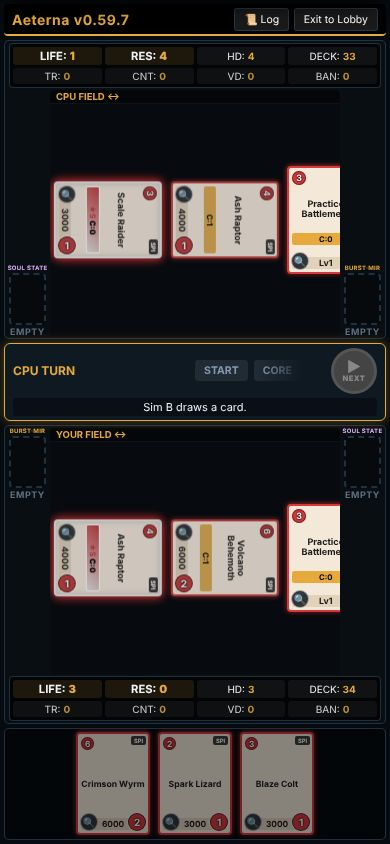
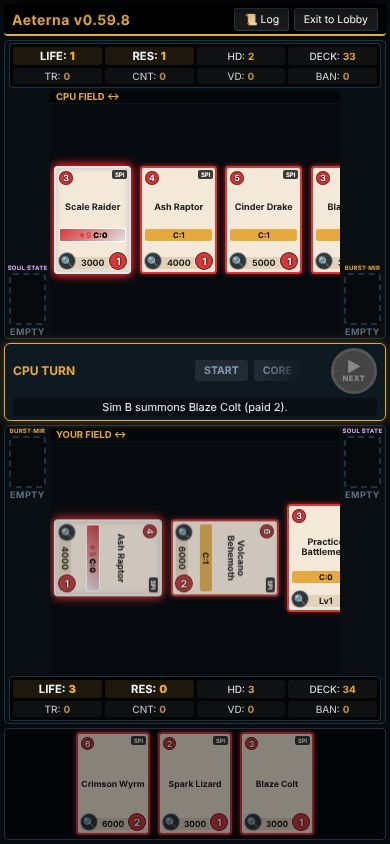
v0.59.8 match fuzzer in Regression: job fuzz, 20 seeded matches per run, failing cases as artifact
Claude-Session: https://claude.ai/code/session_014KcKFafCZmjUeoaywRimbL

diff --git a/docs/progress.html b/docs/progress.html
@@ -14,7 +14,7 @@ details{background:var(--card);border:1px solid var(--line);border-radius:8px;ma
 summary span{font-weight:400;color:var(--mut)}details>div{padding-bottom:8px}ul{margin:4px 0 4px 18px;padding:0}li{margin:3px 0}p{margin:6px 0}
 code{background:rgba(127,127,127,.16);border-radius:4px;padding:0 4px;font-size:13px;word-break:break-word}
 .commits{list-style:none;margin:0;padding:0}.commits li{border-bottom:1px solid var(--line);padding:5px 0;font-size:13px}.commits time{color:var(--mut)}</style></head><body><main>
-<h1>Aeterna - Progress <span class="ver">build v0.59.7</span></h1>
+<h1>Aeterna - Progress <span class="ver">build v0.59.8</span></h1>
 <div class="sub">Generated by <code>tools/gen_roadmap.mjs</code> on every build from CLAUDE.md, docs/ai/roadmap-open.md and the CHANGELOG release notes. Do not edit by hand.</div>
 <h2>Status</h2>
 <div class="card done"><div class="tag">Done</div><strong>Done:</strong> repo cleanup C1+C2 v0.59.2-v0.59.3 (<code>docs/ARCHITECTURE.md</code>, <code>docs/README.md</code>, <code>docs/reports/</code>, <code>docs/mechanics/</code>); colour decks v0.37-v0.40, Magic effect types v0.41/v0.47.0, Fandom data checks, God icons v0.44.6-7, Agateram v0.45.0, Ultimate type + Ultra Manifest v0.46.0, Seal v0.48.0, keyword effects v0.49.0 (High Speed, Crush, Holy Life) and v0.50.0 (Accel, Silver Wheel), compact compressed card pack v0.51.0 (<code>src/js/01a-card-pack.js</code>; all 8,041 cards fit: 1.16 MB, <code>node tools/pack_size.mjs</code>). Roadmap re-ordered by cards unlocked per token (audit 2026-10-16). Staged cards load v0.51.2 (7,875 / 7,889); effect compiler + pilot v0.52.0 (<code>tools/compile_effects.py</code>, <code>tools/promote_compiled.mjs</code>): 499 of 8,041 cards playable. Deck builder: list performance v0.52.1, redesign for PC and phone v0.53.0 (<code>src/js/13a-deckbuilder.js</code>). Compiler patterns + batch v0.54.0 (When Destroyed, Attack Step BP, colour, Burst block): 561 of 8,041 playable. Engine levers v0.55.0 (BP minus without BP-0 destruction, When Destroyed by the Opponent, When Battles battle win, Rush): 573 of 8,041; real unlocks per lever are measured with <code>tools/lever_report.py</code> + a scratch recompile, not the tag counts. Rules audit R1-R2 v0.55.1 (<code>tools/rules_audit.py</code> -&gt; <code>docs/reports/rules-audit.md</code>, sources table in <code>docs/manual-notes.md</code>); R3 Burst resolution order v0.55.2 (Bursts after all non-Burst triggered effects, <code>flushBursts()</code>). Ultimates in the compiler v0.56.0 (Sumcon -&gt; <code>summonIf</code> <code>ctrl</code>/<code>lifeGe</code>, LV3+ check, Ultimate Trigger <code>ULT_TRIGGER</code> + <code>utHit</code>; 0 promoted: the Fandom export drops the <code>[LVn] (timing)</code> line of 110 Ultimate Trigger cards). R3 Standby state v0.57.0 (<code>p.standby</code>, <code>releaseStandby()</code>). R3 effect priority + session E v0.58.0 (STATIC <code>UNAFFECTED</code> / <code>HAND_UNAFFECTED</code>, <code>fxImmune(owner, target, acting effect)</code>, cands filter <code>02k-effects-immunity.js</code>, Armor / Heavy / Ultra Armor in the compiler): 589 of 8,041. Ultimates as targets measured v0.59.0 (0 real unlocks alone; 110 Ultimate Trigger level lines would give ~1 card): step-prefixed attack triggers instead (<code>OPP_ATTACKS</code>, ally family attacks, <code>match.noUlt</code>): 593 of 8,041. Contract-card redraw re-checked v0.59.1 (JP 17.1 + EN 17.0: the redraw returns it, no re-add; dialog note, CPU keeps a hand with its Contract card). Q1 quality bundle v0.59.4-v0.59.6: strict effects mode (<code>fxUnknown</code>: unknown trigger/action/condition/flag throws in automated runs, warns once in release), in-game error catcher (<code>src/js/00b-errors.js</code>, Copy report with the match record), match fuzzer (<code>node tools/fuzz.mjs</code>, cases in <code>tests/fuzz-cases/</code>, test F596 in CI).</div>
@@ -32,8 +32,9 @@ code{background:rgba(127,127,127,.16);border-radius:4px;padding:0 4px;font-size:
 <details><summary>Open from v0.37 <span>(3 groups)</span></summary><div><ul><li>Dagda/Magic Soldier clauses</li><li>Nuadha Contract Field clauses</li><li>Goibniu LV2 (direct Brave combine by an effect).</li></ul></div></details>
 <details><summary>Open from v0.35 (issue #3, was vault #4) <span>(1 groups)</span></summary><div><ul><li>the Nexus taking a Saga Brave's cost/family, Seal / Unstackable when cards need them (Ultra Manifest and the Ultimate type: v0.46.0).</li></ul></div></details>
 <h2>Release notes</h2>
-<div class="chips"><a href="#r-v0-59-7">v0.59.7</a><a href="#r-v0-59-6">v0.59.6</a><a href="#r-v0-59-5">v0.59.5</a><a href="#r-v0-59-4">v0.59.4</a><a href="#r-v0-59-3">v0.59.3</a><a href="#r-v0-59-2">v0.59.2</a><a href="#r-v0-59-1">v0.59.1</a><a href="#r-v0-59-0">v0.59.0</a><a href="#r-v0-58-0">v0.58.0</a><a href="#r-v0-57-0">v0.57.0</a><a href="#r-v0-56-0">v0.56.0</a><a href="#r-v0-55-2">v0.55.2</a></div>
-<details id="r-v0-59-7" open><summary>v0.59.7 <span>Front page and releases (C5, owner request; docs and tooling only, no change to the game):</span></summary><div><ul><li><strong>Front page and releases</strong> (C5, owner request; docs and tooling only, no change to the game):</li><ul><li><code>README.md</code> is now a short front page (about 60 lines, modelled on the Aegis repo page): pitch, download link, four screenshots (match on PC and phone, deck builder, lobby; <code>docs/images/</code>, made by <code>node tools/screens.mjs</code> from a seeded CPU-vs-CPU match), what it does, status, a small architecture diagram and the three dev commands. The lobby replaces the planned &quot;card library&quot; shot: the Library view only holds the import tools. The old Data / Development / glossary text moved to <code>docs/ARCHITECTURE.md</code>.</li><li>Release notes moved unchanged from the README to this file (<code>CHANGELOG.md</code>, newest first); the two <code>v0.14.0</code> sections are merged into one, so every version has one heading. <code>tools/gen_roadmap.mjs</code> (progress page), <code>tools/brand_guard.mjs</code> and <code>tools/pack_ai.mjs</code> read it; <code>node tools/build.mjs --check</code> fails when its newest heading is not the current version; the README &quot;Current build&quot; line now points to the latest release.</li><li>GitHub Releases: <code>.github/workflows/release.yml</code> runs after CI succeeds on <code>main</code> and calls <code>tools/make_releases.sh</code>, which creates every missing release from v0.57.1 on (oldest first, newest stays &quot;Latest&quot;): tag on the last <code>main</code> commit of that version, title from the first bullet of its notes, body = its notes + playable count, asset <code>aeterna-vX.Y.Z.html</code> (the committed <code>index.html</code>). The first run backfills v0.58.0-v0.59.6 (v0.57.0 already has its release). The body says &quot;CI green&quot; only for the commit CI just passed; Regression runs later in the session, so the release does not claim it. <code>DRY_RUN=1</code> prints the plan.</li><li>Tests C597-01..07 (<code>tests/unit/frontpage597.test.mjs</code>): README under 120 lines with no release notes, every local link/image exists, screenshots are small JPEGs, newest CHANGELOG heading = version, neutral sentences kept word for word, workflow shape, dry run of the release script.</li><li>Session runner, release guide, doc convention and CLAUDE.md now name <code>CHANGELOG.md</code>; the session end checks the release with one <code>gh api</code> call.</li><li>Revert: <code>git revert</code> of the v0.59.7 commit (the releases and tags it creates stay; delete them on GitHub if wanted).</li></ul></ul></div></details>
+<div class="chips"><a href="#r-v0-59-8">v0.59.8</a><a href="#r-v0-59-7">v0.59.7</a><a href="#r-v0-59-6">v0.59.6</a><a href="#r-v0-59-5">v0.59.5</a><a href="#r-v0-59-4">v0.59.4</a><a href="#r-v0-59-3">v0.59.3</a><a href="#r-v0-59-2">v0.59.2</a><a href="#r-v0-59-1">v0.59.1</a><a href="#r-v0-59-0">v0.59.0</a><a href="#r-v0-58-0">v0.58.0</a><a href="#r-v0-57-0">v0.57.0</a><a href="#r-v0-56-0">v0.56.0</a></div>
+<details id="r-v0-59-8" open><summary>v0.59.8 <span>Match fuzzer in Regression (F1, owner approved; workflow only, no change to the game):</span></summary><div><ul><li><strong>Match fuzzer in Regression</strong> (F1, owner approved; workflow only, no change to the game):</li><ul><li>New job <code>fuzz</code> in the Regression workflow, next to the 5 Python parts: <code>node tools/fuzz.mjs --runs N --seed &lt;run id mod 1e9&gt;</code> (dispatch input <code>fuzz</code>, default 20; <code>0</code> skips it). Every run plays new seeds, so rare crashes, invariant breaks and endless matches turn up without spending session tokens.</li><li>A failure names mode + seed as annotations (sessions cannot read raw logs); the case JSON is uploaded as run artifact <code>fuzz-cases</code>, since workflows do not commit. The next session downloads it, commits it to <code>tests/fuzz-cases/</code> (test F596 replays it) and fixes it first.</li><li>Budget: about 7 s per match locally (3 matches in 20 s), so 20 matches stay well under the slowest Python part (the whole Regression took about 6 minutes on v0.59.6).</li><li>Tests F598-01..03 (<code>tests/unit/fuzzci598.test.mjs</code>): job, input, run-id seed, failing exit, annotations, artifact.</li><li>Revert: <code>git revert</code> of the v0.59.8 commit.</li></ul></ul></div></details>
+<details id="r-v0-59-7"><summary>v0.59.7 <span>Front page and releases (C5, owner request; docs and tooling only, no change to the game):</span></summary><div><ul><li><strong>Front page and releases</strong> (C5, owner request; docs and tooling only, no change to the game):</li><ul><li><code>README.md</code> is now a short front page (about 60 lines, modelled on the Aegis repo page): pitch, download link, four screenshots (match on PC and phone, deck builder, lobby; <code>docs/images/</code>, made by <code>node tools/screens.mjs</code> from a seeded CPU-vs-CPU match), what it does, status, a small architecture diagram and the three dev commands. The lobby replaces the planned &quot;card library&quot; shot: the Library view only holds the import tools. The old Data / Development / glossary text moved to <code>docs/ARCHITECTURE.md</code>.</li><li>Release notes moved unchanged from the README to this file (<code>CHANGELOG.md</code>, newest first); the two <code>v0.14.0</code> sections are merged into one, so every version has one heading. <code>tools/gen_roadmap.mjs</code> (progress page), <code>tools/brand_guard.mjs</code> and <code>tools/pack_ai.mjs</code> read it; <code>node tools/build.mjs --check</code> fails when its newest heading is not the current version; the README &quot;Current build&quot; line now points to the latest release.</li><li>GitHub Releases: <code>.github/workflows/release.yml</code> runs after CI succeeds on <code>main</code> and calls <code>tools/make_releases.sh</code>, which creates every missing release from v0.57.1 on (oldest first, newest stays &quot;Latest&quot;): tag on the last <code>main</code> commit of that version, title from the first bullet of its notes, body = its notes + playable count, asset <code>aeterna-vX.Y.Z.html</code> (the committed <code>index.html</code>). The first run backfills v0.58.0-v0.59.6 (v0.57.0 already has its release). The body says &quot;CI green&quot; only for the commit CI just passed; Regression runs later in the session, so the release does not claim it. <code>DRY_RUN=1</code> prints the plan.</li><li>Tests C597-01..07 (<code>tests/unit/frontpage597.test.mjs</code>): README under 120 lines with no release notes, every local link/image exists, screenshots are small JPEGs, newest CHANGELOG heading = version, neutral sentences kept word for word, workflow shape, dry run of the release script.</li><li>Session runner, release guide, doc convention and CLAUDE.md now name <code>CHANGELOG.md</code>; the session end checks the release with one <code>gh api</code> call.</li><li>Revert: <code>git revert</code> of the v0.59.7 commit (the releases and tags it creates stay; delete them on GitHub if wanted).</li></ul></ul></div></details>
 <details id="r-v0-59-6"><summary>v0.59.6 <span>Match fuzzer (Q1 quality bundle, Aegis idea; no change to normal play):</span></summary><div><ul><li><strong>Match fuzzer</strong> (Q1 quality bundle, Aegis idea; no change to normal play):</li><ul><li>CPU hook <code>FUZZ</code> / <code>fuzzPick</code> (<code>src/js/09a-cpu-eval.js</code>, <code>BS.setFuzz</code>): while on for a side, that CPU picks a uniformly random legal option or passes at its play, attack and block decisions, using the seeded game rng, so a fuzzed match replays exactly from seed + mode + fuzz setting. Off by default.</li><li><code>node tools/fuzz.mjs [--runs 20] [--seed S] [--timeout 90000] [--modes ...]</code>: headless Playwright, 10 deck pairings in turn; any page/console error, error notice, invariant break or match not over in time is saved as <code>tests/fuzz-cases/&lt;mode&gt;-&lt;seed&gt;.json</code> (version, reason, replay record). First run: 40 of 40 matches healthy (master seed 20261017, all 10 pairings), so no case was saved.</li><li>Tests F596-01..04 (<code>tests/unit/fuzz596.test.mjs</code>, slow file: runs in CI <code>npm test</code>, kept out of the quick loop): seeded uniform picks, fuzzed match reproducible and different from the normal CPU, a 3-match live batch, replay of every saved case. <code>simMatch</code> takes <code>fuzz</code>.</li><li>Release checks: CI green (run 39022456850) and Regression green (run 39022456284, Python parts 1-3 + legacy, 30 CPU-vs-CPU sims) for v0.59.4-v0.59.6; player-view pass (<code>node tools/player_view.mjs</code>): 95 cards in 6 decks, 0 problems, PC and phone layouts render. No backup due (2 releases since <code>backup/v0.59.4</code>).</li><li>Revert: <code>git revert</code> of the v0.59.6 commit.</li></ul></ul></div></details>
 <details id="r-v0-59-5"><summary>v0.59.5 <span>In-game error catcher (Q1 quality bundle, Aegis idea; UI addition):</span></summary><div><ul><li><strong>In-game error catcher</strong> (Q1 quality bundle, Aegis idea; UI addition):</li><ul><li>New part <code>src/js/00b-errors.js</code>: an uncaught error or unhandled promise rejection shows a small notice at the top of the screen (&quot;Something went wrong (N errors). The game may be stuck.&quot;) with <strong>Copy report</strong> and <strong>Close</strong>. The report holds the version, browser, the last 10 errors (message + stack), the match turn/step and the input record of the running match (<code>replayOf(G)</code>: seed, decks, inputs), so a stuck game can be replayed. If the clipboard is blocked, the report text appears in a box to select by hand. The errors still reach the console and the test hooks (the events are not cancelled).</li><li>Checked on PC (1280x720) and phone (390x844) screenshots: the notice sits above the board and does not move it.</li><li>Tests E595-01..06 (<code>tests/unit/errors595.test.mjs</code>).</li><li>Backup of the previous state: <code>backup/v0.59.4</code>. Revert: <code>git revert</code> of the v0.59.5 commit.</li></ul></ul></div></details>
 <details id="r-v0-59-4"><summary>v0.59.4 <span>Strict effects mode (Q1 quality bundle, Aegis idea):</span></summary><div><ul><li><strong>Strict effects mode</strong> (Q1 quality bundle, Aegis idea):</li><ul><li>An unknown effect trigger (<code>collectFx</code>), action (<code>runActions</code>, <code>fxCan</code>), condition key (<code>fxIf</code>) or STATIC flag (<code>flagActive</code>) is no longer a silent no-op: <code>fxUnknown</code> throws in automated runs (Playwright tests, CPU-vs-CPU sims: <code>navigator.webdriver</code>; or <code>?strict=1</code>) and in the release build warns once per name in the console and skips it (condition not met, no effects collected, the action is skipped and the next one runs). The parser already rejected unknown names in card data; this catches names written in engine code and hand-made effect objects.</li><li>Tests S594-01..05 (<code>tests/unit/strict594.test.mjs</code>): strict throws for all four kinds, release skip + warn-once, every parser condition key known to <code>fxIf</code>, every built-in card effect uses known action/flag names. CPU-vs-CPU property tests 48/48 under strict mode.</li><li>Revert: <code>git revert</code> of the v0.59.4 commit.</li></ul></ul></div></details>

diff --git a/docs/roadmap.html b/docs/roadmap.html
@@ -80,11 +80,11 @@ summary:focus-visible{outline:2px solid var(--accent);outline-offset:2px;border-
 <div class="wrap">
  <aside class="root">
   <div class="rn"><h1>Aeterna</h1><p>From tested engine to a simulator that plays like Aegis</p></div>
-  <div class="prog"><h2>117 tasks · v0.59.7</h2>
+  <div class="prog"><h2>117 tasks · v0.59.8</h2>
    <div class="bar" role="img" aria-label="Task progress: 84 done, 1 in progress, 0 need you, 11 next, 21 later"><span class="seg s-done" style="flex:84" title="Done: 84"></span><span class="seg s-doing" style="flex:1" title="In progress: 1"></span><span class="seg s-next" style="flex:11" title="Next: 11"></span><span class="seg s-later" style="flex:21" title="Later: 21"></span></div>
    <ul class="legend"><li><span class="sw" style="background:var(--done)"></span>Done <b>84</b></li><li><span class="sw" style="background:var(--doing)"></span>In progress <b>1</b></li><li><span class="sw" style="background:var(--you)"></span>Needs you <b>0</b></li><li><span class="sw" style="background:var(--next)"></span>Next <b>11</b></li><li><span class="sw" style="background:var(--line)"></span>Later <b>21</b></li></ul></div>
   <p class="note"><b>Waiting on you:</b> nothing. The god-icon check is done (official site for BS68, Fandom for BS69–BS72); no UI change is waiting for approval.</p>
-  <p class="upd">Updated 17 Oct 2026, v0.59.7 · next: Q1 quality bundle (Opus: strict effects mode, in-game error report, match fuzzer), then a card session; monorepo, quality and UI-language sessions alternate with card sessions; 593 of 8,041 cards playable</p>
+  <p class="upd">Updated 17 Oct 2026, v0.59.8 · next: Q1 quality bundle (Opus: strict effects mode, in-game error report, match fuzzer), then a card session; monorepo, quality and UI-language sessions alternate with card sessions; 593 of 8,041 cards playable</p>
  </aside>
  <main class="tree">
 <details class="branch b-done" open id="p0"><summary><span class="core" aria-hidden="true">0</span>

diff --git a/index.html b/index.html
@@ -764,7 +764,7 @@ if (typeof window !== 'undefined' && window.addEventListener) {
    type: 'Spirit' | 'Nexus' | 'Magic'      symbol: card color     symbols: number of symbols
    reduction: {color: n}         levels: [{cores, bp}]  (Nexus levels have no bp)
    --------------------------------------------------------------------- */
-const VERSION = '0.59.7';
+const VERSION = '0.59.8';
 document.title = 'Aeterna - Engine v' + VERSION;
 const CARDS = {};
 function defCard(o) {

diff --git a/src/js/01-cards.js b/src/js/01-cards.js
@@ -3,7 +3,7 @@
    type: 'Spirit' | 'Nexus' | 'Magic'      symbol: card color     symbols: number of symbols
    reduction: {color: n}         levels: [{cores, bp}]  (Nexus levels have no bp)
    --------------------------------------------------------------------- */
-const VERSION = '0.59.7';
+const VERSION = '0.59.8';
 document.title = 'Aeterna - Engine v' + VERSION;
 const CARDS = {};
 function defCard(o) {

diff --git a/.claude/skills/bs-session-runner/SKILL.md b/.claude/skills/bs-session-runner/SKILL.md
@@ -24,7 +24,7 @@ The repo CLAUDE.md is the source of truth; this skill only orders its steps. Do 
 - Usage / quota / rate-limit error: do not retry and do not touch schedules; push what is committed, handoff comment, `bash tools/session_gate.sh unlock`, stop.
 
 ## End (in this order)
-1. Release gate per `docs/ai/release.md`: dispatch Regression, wait with the one-line poll in `docs/ai/token-economy.md`, read only failing lines.
+1. Release gate per `docs/ai/release.md`: dispatch Regression, wait with the one-line poll in `docs/ai/token-economy.md`, read only failing lines (a `fuzz` job failure: download artifact `fuzz-cases`, commit the case, fix it first; `docs/ai/release.md`).
 2. `python3 tools/unlock_report.py` (refreshes `docs/reports/unlock-report.md`). Update `docs/roadmap-data.json` (statuses, `updated`, `next`), the `**Done:**` / `**Next:**` lines of the CLAUDE.md Roadmap (`session_start.sh` prints the Next line, so a stale one misleads the next session) and delete finished items in `docs/ai/roadmap-open.md`; `node tools/gen_roadmap.mjs`, final commit + push.
 3. Backup (owner: every 5 releases, not every session, not every commit): newest backup `B=$(git ls-remote --heads origin 'backup/*' | sed 's#.*refs/heads/##' | sort -V | tail -1)`; releases since then `gh api repos/odinguard009/aeterna/compare/$B...main --jq '[.commits[].commit.message | select(test("^v[0-9]"))] | length'` (chore/docs commits do not count). Due when it is >= 5: `git push origin HEAD:refs/heads/backup/vX.Y.Z`. A UI change keeps its own backup of the previous state (CLAUDE.md). Not due: run step 4 with `--no-backup`. Branch housekeeping: keep the newest 3 `backup/v*` branches; older ones whose tip is on `main` are listed with name + SHA in `docs/ai/deleted-branches.md` (restorable with `git push origin <sha>:refs/heads/<name>`); the session proxy blocks branch deletion, so the owner deletes them on GitHub.
 4. Deliver the game: copy `index.html` to `/mnt/user-data/outputs/aeterna-vX.Y.Z.html`, then `node tools/session_end_check.mjs` (game file + embedded version, `test:release` on it, mind map fresh, `backup/vX.Y.Z` on origin; `--no-backup` only when no backup is due). It must pass. Check that the Release workflow made the GitHub Release (it runs after CI on `main`; one call: `gh api repos/odinguard009/aeterna/releases/tags/vX.Y.Z --jq '.assets[].name'` lists `aeterna-vX.Y.Z.html`; a docs-only last commit starts no CI, so the release of a version comes from the CI run of its version commit). Not there after CI finished: read the Release run's failing lines and note it in the final message. Then SendUserFile that HTML **and** `docs/roadmap.html` to the owner (owner, 2026-10-16: the playable file must always be sent, not only the mind map). Do not close the session before both files are sent.

diff --git a/docs/ai/release.md b/docs/ai/release.md
@@ -9,7 +9,7 @@
 
 ## Gate
 - Local: `npm test` (~90 s) passes, `node tools/lint.mjs` clean, `python3 tools/check_renames.py` ok (stale names/labels in tests). The pre-push hook (`git config core.hooksPath .githooks`, once per clone) runs build check + lint + quick tests.
-- GitHub: every push runs **CI** (build check, lint, Node tests). **Regression** (Python parts 1-3, legacy, 30 sims, in parallel) is started from the session with `gh api -X POST repos/odinguard009/aeterna/actions/workflows/regression.yml/dispatches -f ref=main -f 'inputs[sims]=30'` (pushing tags and creating refs are blocked by the session proxy; a tag pushed by the user also starts it). Wait with the one-line poll in `token-economy.md`; on failure read only the failing lines. Record real failures honestly, fix, push, dispatch again.
+- GitHub: every push runs **CI** (build check, lint, Node tests). **Regression** (Python parts 1-3, legacy, 30 sims, plus the Node job `fuzz`: 20 fuzzed matches seeded by the run id, all in parallel) is started from the session with `gh api -X POST repos/odinguard009/aeterna/actions/workflows/regression.yml/dispatches -f ref=main -f 'inputs[sims]=30'` (pushing tags and creating refs are blocked by the session proxy; a tag pushed by the user also starts it). Wait with the one-line poll in `token-economy.md`; on failure read only the failing lines. Record real failures honestly, fix, push, dispatch again. A `fuzz` failure names mode + seed in its annotations; the case JSON is the run artifact `fuzz-cases` (`gh run download <run id> -n fuzz-cases -D tests/fuzz-cases`): commit it (test F596 replays it) and fix it first, before new work.
 
 ## Routine
 1. `src/` changes; bump `VERSION` (`src/js/01-cards.js`) and `package.json` `version`. Card data: `data/cards/saga-*.json` -> `python3 tools/build_cards.py` -> `python3 tools/tag_effects.py` -> `node tools/build.mjs` (also refreshes `docs/ai/code-map.md`).

diff --git a/CHANGELOG.md b/CHANGELOG.md
@@ -2,6 +2,14 @@
 
 Release notes, newest first. Each version also has a GitHub Release with the game file attached (from v0.57.1 on; earlier versions are listed here only). Issue numbers up to v0.57.0 refer to the owner's private archive.
 
+## v0.59.8
+- **Match fuzzer in Regression** (F1, owner approved; workflow only, no change to the game):
+  - New job `fuzz` in the Regression workflow, next to the 5 Python parts: `node tools/fuzz.mjs --runs N --seed <run id mod 1e9>` (dispatch input `fuzz`, default 20; `0` skips it). Every run plays new seeds, so rare crashes, invariant breaks and endless matches turn up without spending session tokens.
+  - A failure names mode + seed as annotations (sessions cannot read raw logs); the case JSON is uploaded as run artifact `fuzz-cases`, since workflows do not commit. The next session downloads it, commits it to `tests/fuzz-cases/` (test F596 replays it) and fixes it first.
+  - Budget: about 7 s per match locally (3 matches in 20 s), so 20 matches stay well under the slowest Python part (the whole Regression took about 6 minutes on v0.59.6).
+  - Tests F598-01..03 (`tests/unit/fuzzci598.test.mjs`): job, input, run-id seed, failing exit, annotations, artifact.
+  - Revert: `git revert` of the v0.59.8 commit.
+
 ## v0.59.7
 - **Front page and releases** (C5, owner request; docs and tooling only, no change to the game):
   - `README.md` is now a short front page (about 60 lines, modelled on the Aegis repo page): pitch, download link, four screenshots (match on PC and phone, deck builder, lobby; `docs/images/`, made by `node tools/screens.mjs` from a seeded CPU-vs-CPU match), what it does, status, a small architecture diagram and the three dev commands. The lobby replaces the planned "card library" shot: the Library view only holds the import tools. The old Data / Development / glossary text moved to `docs/ARCHITECTURE.md`.

diff --git a/docs/ai/roadmap-open.md b/docs/ai/roadmap-open.md
@@ -4,7 +4,6 @@ Read the lines for the colour or mechanic you touch before starting. Newest firs
 
 ## Session order (owner, 2026-10-17; replaces the plan order below where they differ)
 Opus for every session. Migration and quality sessions alternate with card sessions (card session = the next mechanic by measured unlocks from "Plan from the audit" below: Brave completion, When Destroyed, Grandwalker Nexus effects, ...). Delete each line when done.
-2c. **F1 fuzzer in Regression** (owner approved 2026-10-17, patch, bundle with C5): new matrix part `fuzz` in `.github/workflows/regression.yml` (input `fuzz`, default 20 matches; `node tools/fuzz.mjs --runs N --seed <run id>`; exit 1 on any failure); failing cases (`tests/fuzz-cases/*.json`) uploaded as a run artifact, since workflows do not commit: the next session downloads the artifact, commits the case and fixes it first. Also `tests/run_all.py`/`release.md`/skill text name the new part; budget: the part must stay under the slowest existing part (measure on the first run, lower the default if not).
 3. Card session.
 4. **M1 workspace skeleton** + **Q2 test waits**: replace the fixed `wait_for_timeout` calls in `tests/suites` (318 on 2026-10-17) with waits on a visible state (modal open, step label, log line); the count is a shrink-only ratchet.
 5. Card session.

diff --git a/docs/ARCHITECTURE.md b/docs/ARCHITECTURE.md
@@ -87,7 +87,7 @@ Staging keeps every card; playable is the promoted subset, so the stages are not
 
 Ratchet lists (`tests/unit/known-gaps.json`) only shrink. Hooks (`.githooks/`): pre-push runs build check, lint, quick tests, `tools/check_renames.py` and the brand guard; commit-msg runs the brand guard.
 
-Match fuzzer (v0.59.6): `node tools/fuzz.mjs [--runs N] [--seed S]` plays CPU-vs-CPU matches with random legal CPU choices (`BS.setFuzz`, `fuzzPick` in `09a-cpu-eval.js`, seeded game rng); a crash, invariant break or match that does not end is saved to `tests/fuzz-cases/`, replayed by `tests/unit/fuzz596.test.mjs` (CI only, not in the quick loop).
+Match fuzzer (v0.59.6): `node tools/fuzz.mjs [--runs N] [--seed S]` plays CPU-vs-CPU matches with random legal CPU choices (`BS.setFuzz`, `fuzzPick` in `09a-cpu-eval.js`, seeded game rng); a crash, invariant break or match that does not end is saved to `tests/fuzz-cases/`, replayed by `tests/unit/fuzz596.test.mjs` (CI only, not in the quick loop). Regression job `fuzz` (v0.59.8) plays 20 fuzzed matches per run, seeded by the run id; new failing cases come back as the run artifact `fuzz-cases`.
 
 ## 7. Session tooling
 - `tools/session_start.sh`: overlap guard, hooks, baseline loop, version, Next line, playable count, open issues.

diff --git a/README.md b/README.md
@@ -27,7 +27,7 @@ A fan-made, single-file web simulator for a trading card game. You play against 
 Card images are not included; you can import your own in the game (Library).
 
 ## Status
-Current build: **v0.59.7** (593 of 8,041 cards playable). Download `aeterna-v0.59.7.html` from the [latest release](https://github.com/odinguard009/aeterna/releases/latest) and open it in Chrome or Edge; release notes are in [CHANGELOG.md](CHANGELOG.md).
+Current build: **v0.59.8** (593 of 8,041 cards playable). Download `aeterna-v0.59.8.html` from the [latest release](https://github.com/odinguard009/aeterna/releases/latest) and open it in Chrome or Edge; release notes are in [CHANGELOG.md](CHANGELOG.md).
 
 Next: card sessions that add the mechanics unlocking the most cards, alternating with the move to a TypeScript workspace (server and online play later). Open items: [`docs/ai/roadmap-open.md`](docs/ai/roadmap-open.md); progress page: [`docs/progress.html`](docs/progress.html); mind map: [`docs/roadmap.html`](docs/roadmap.html).
 
